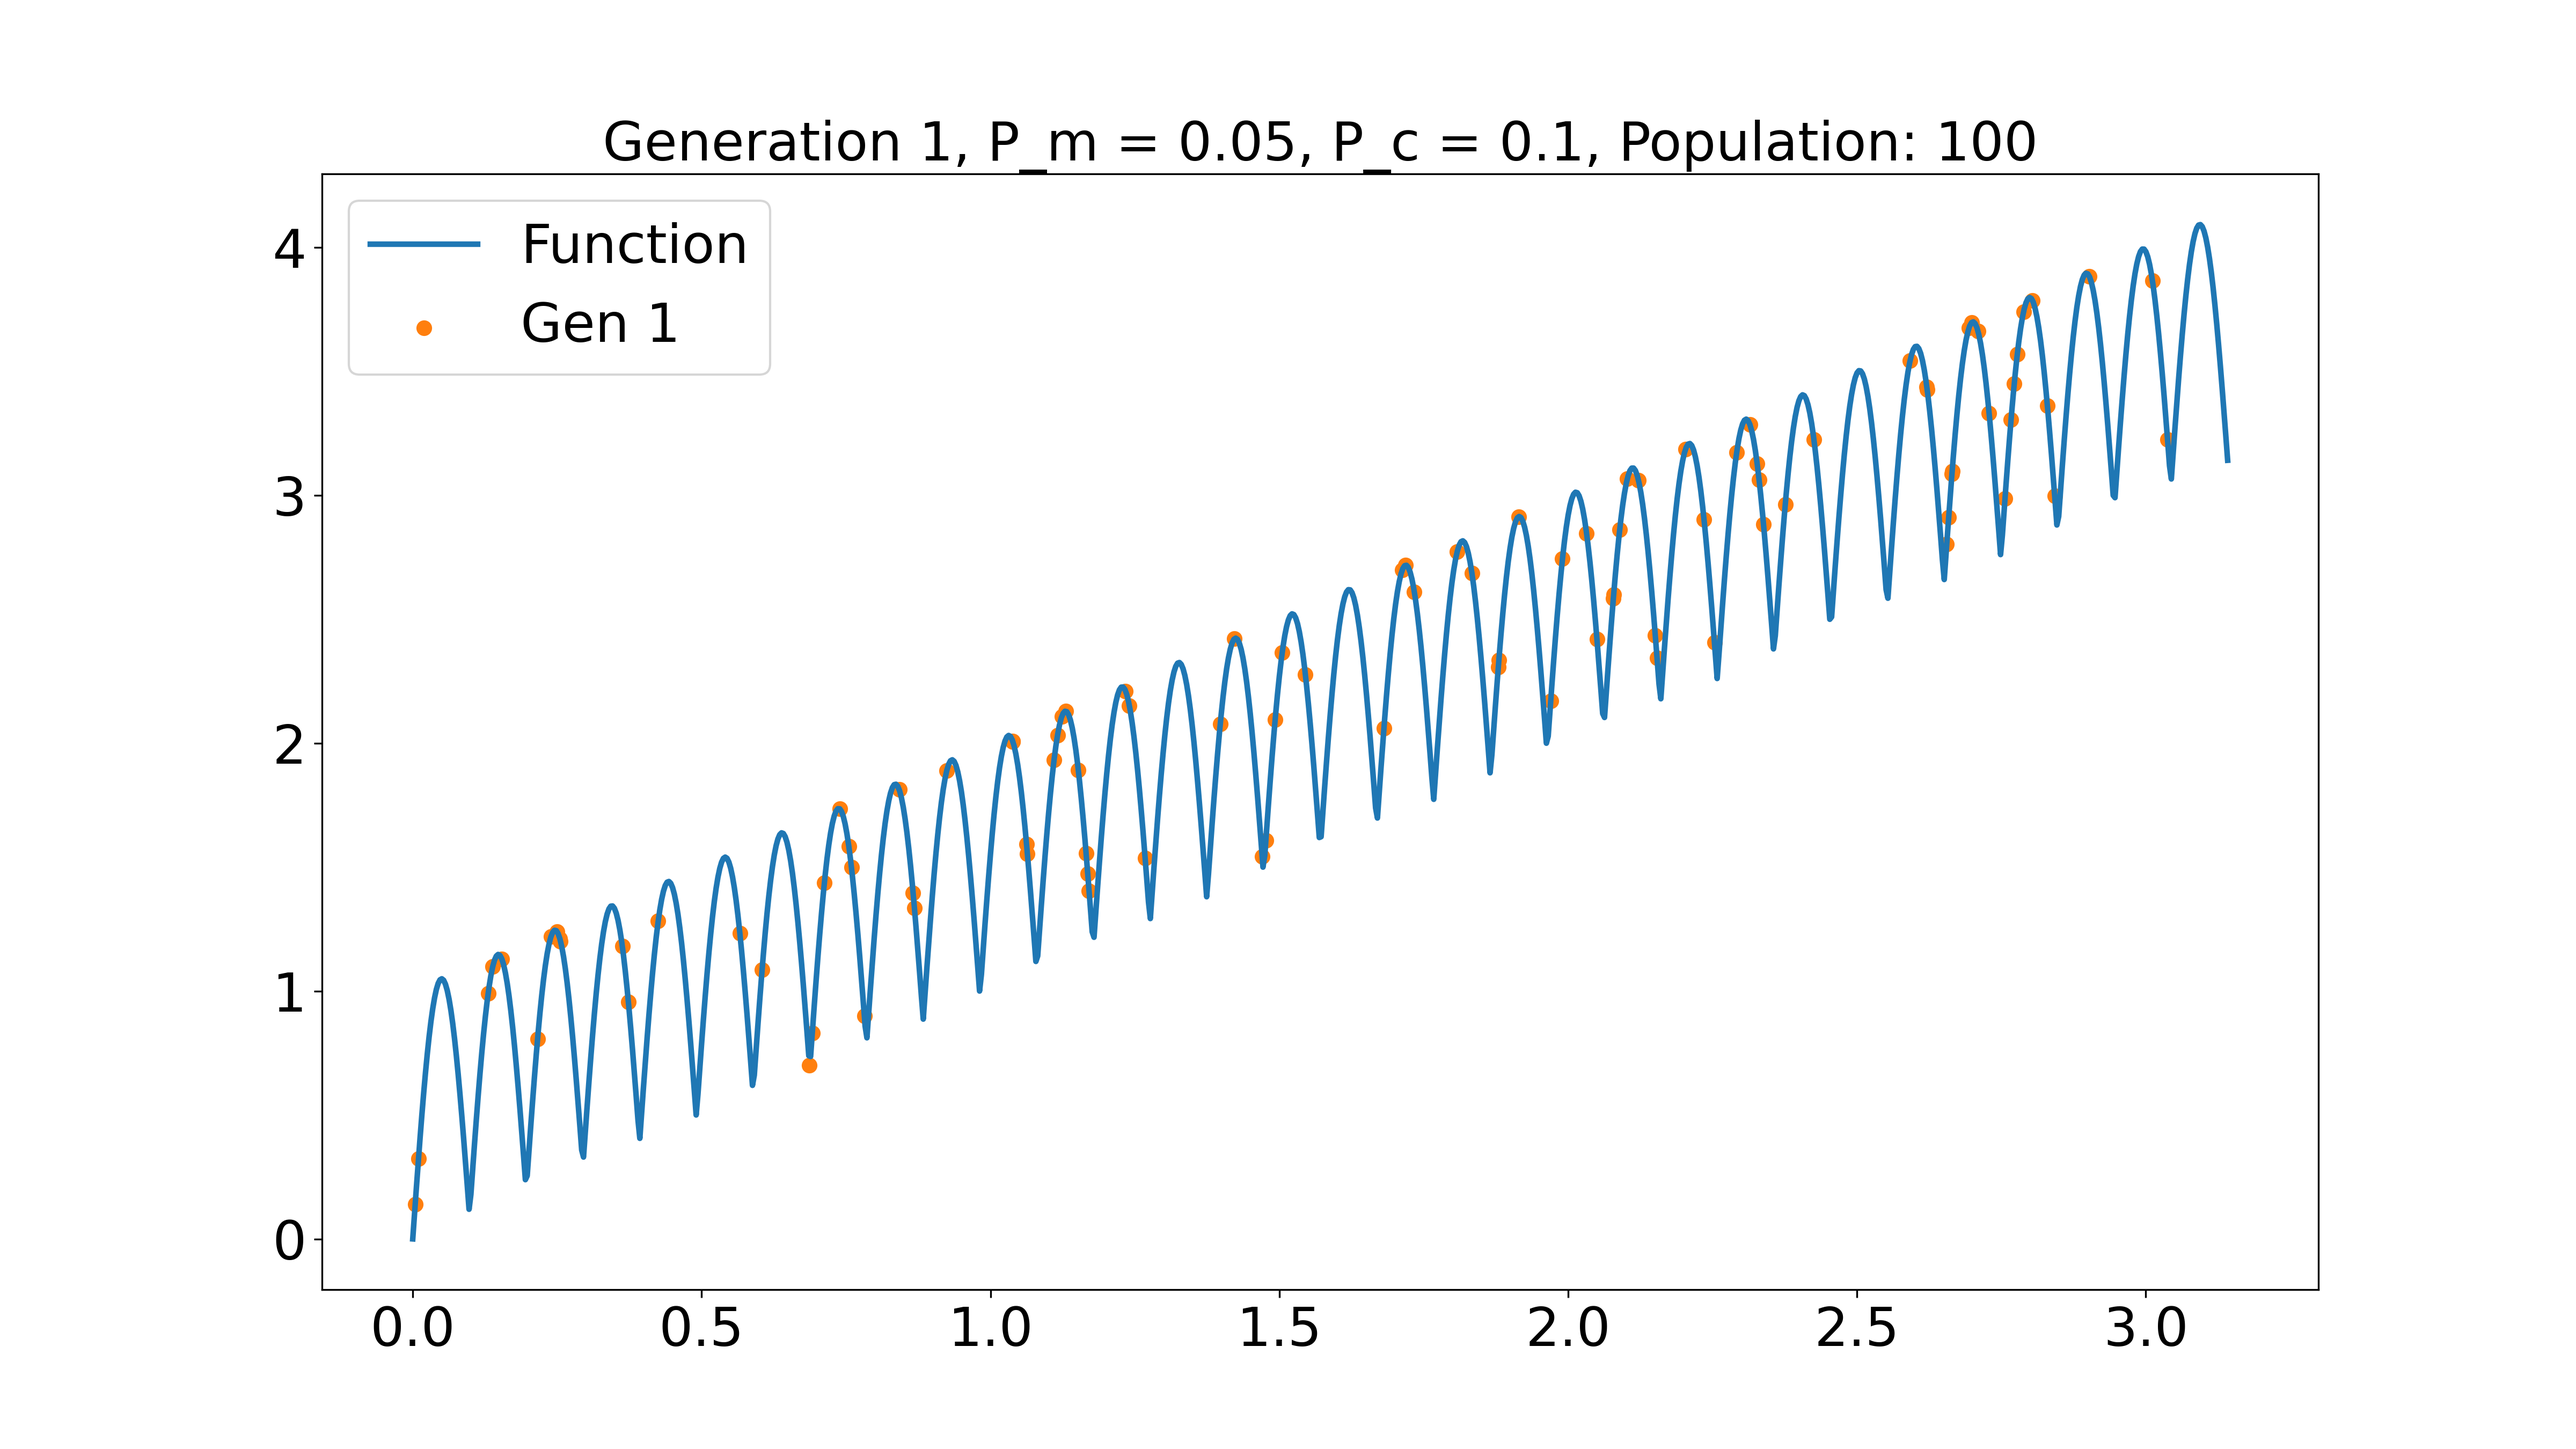
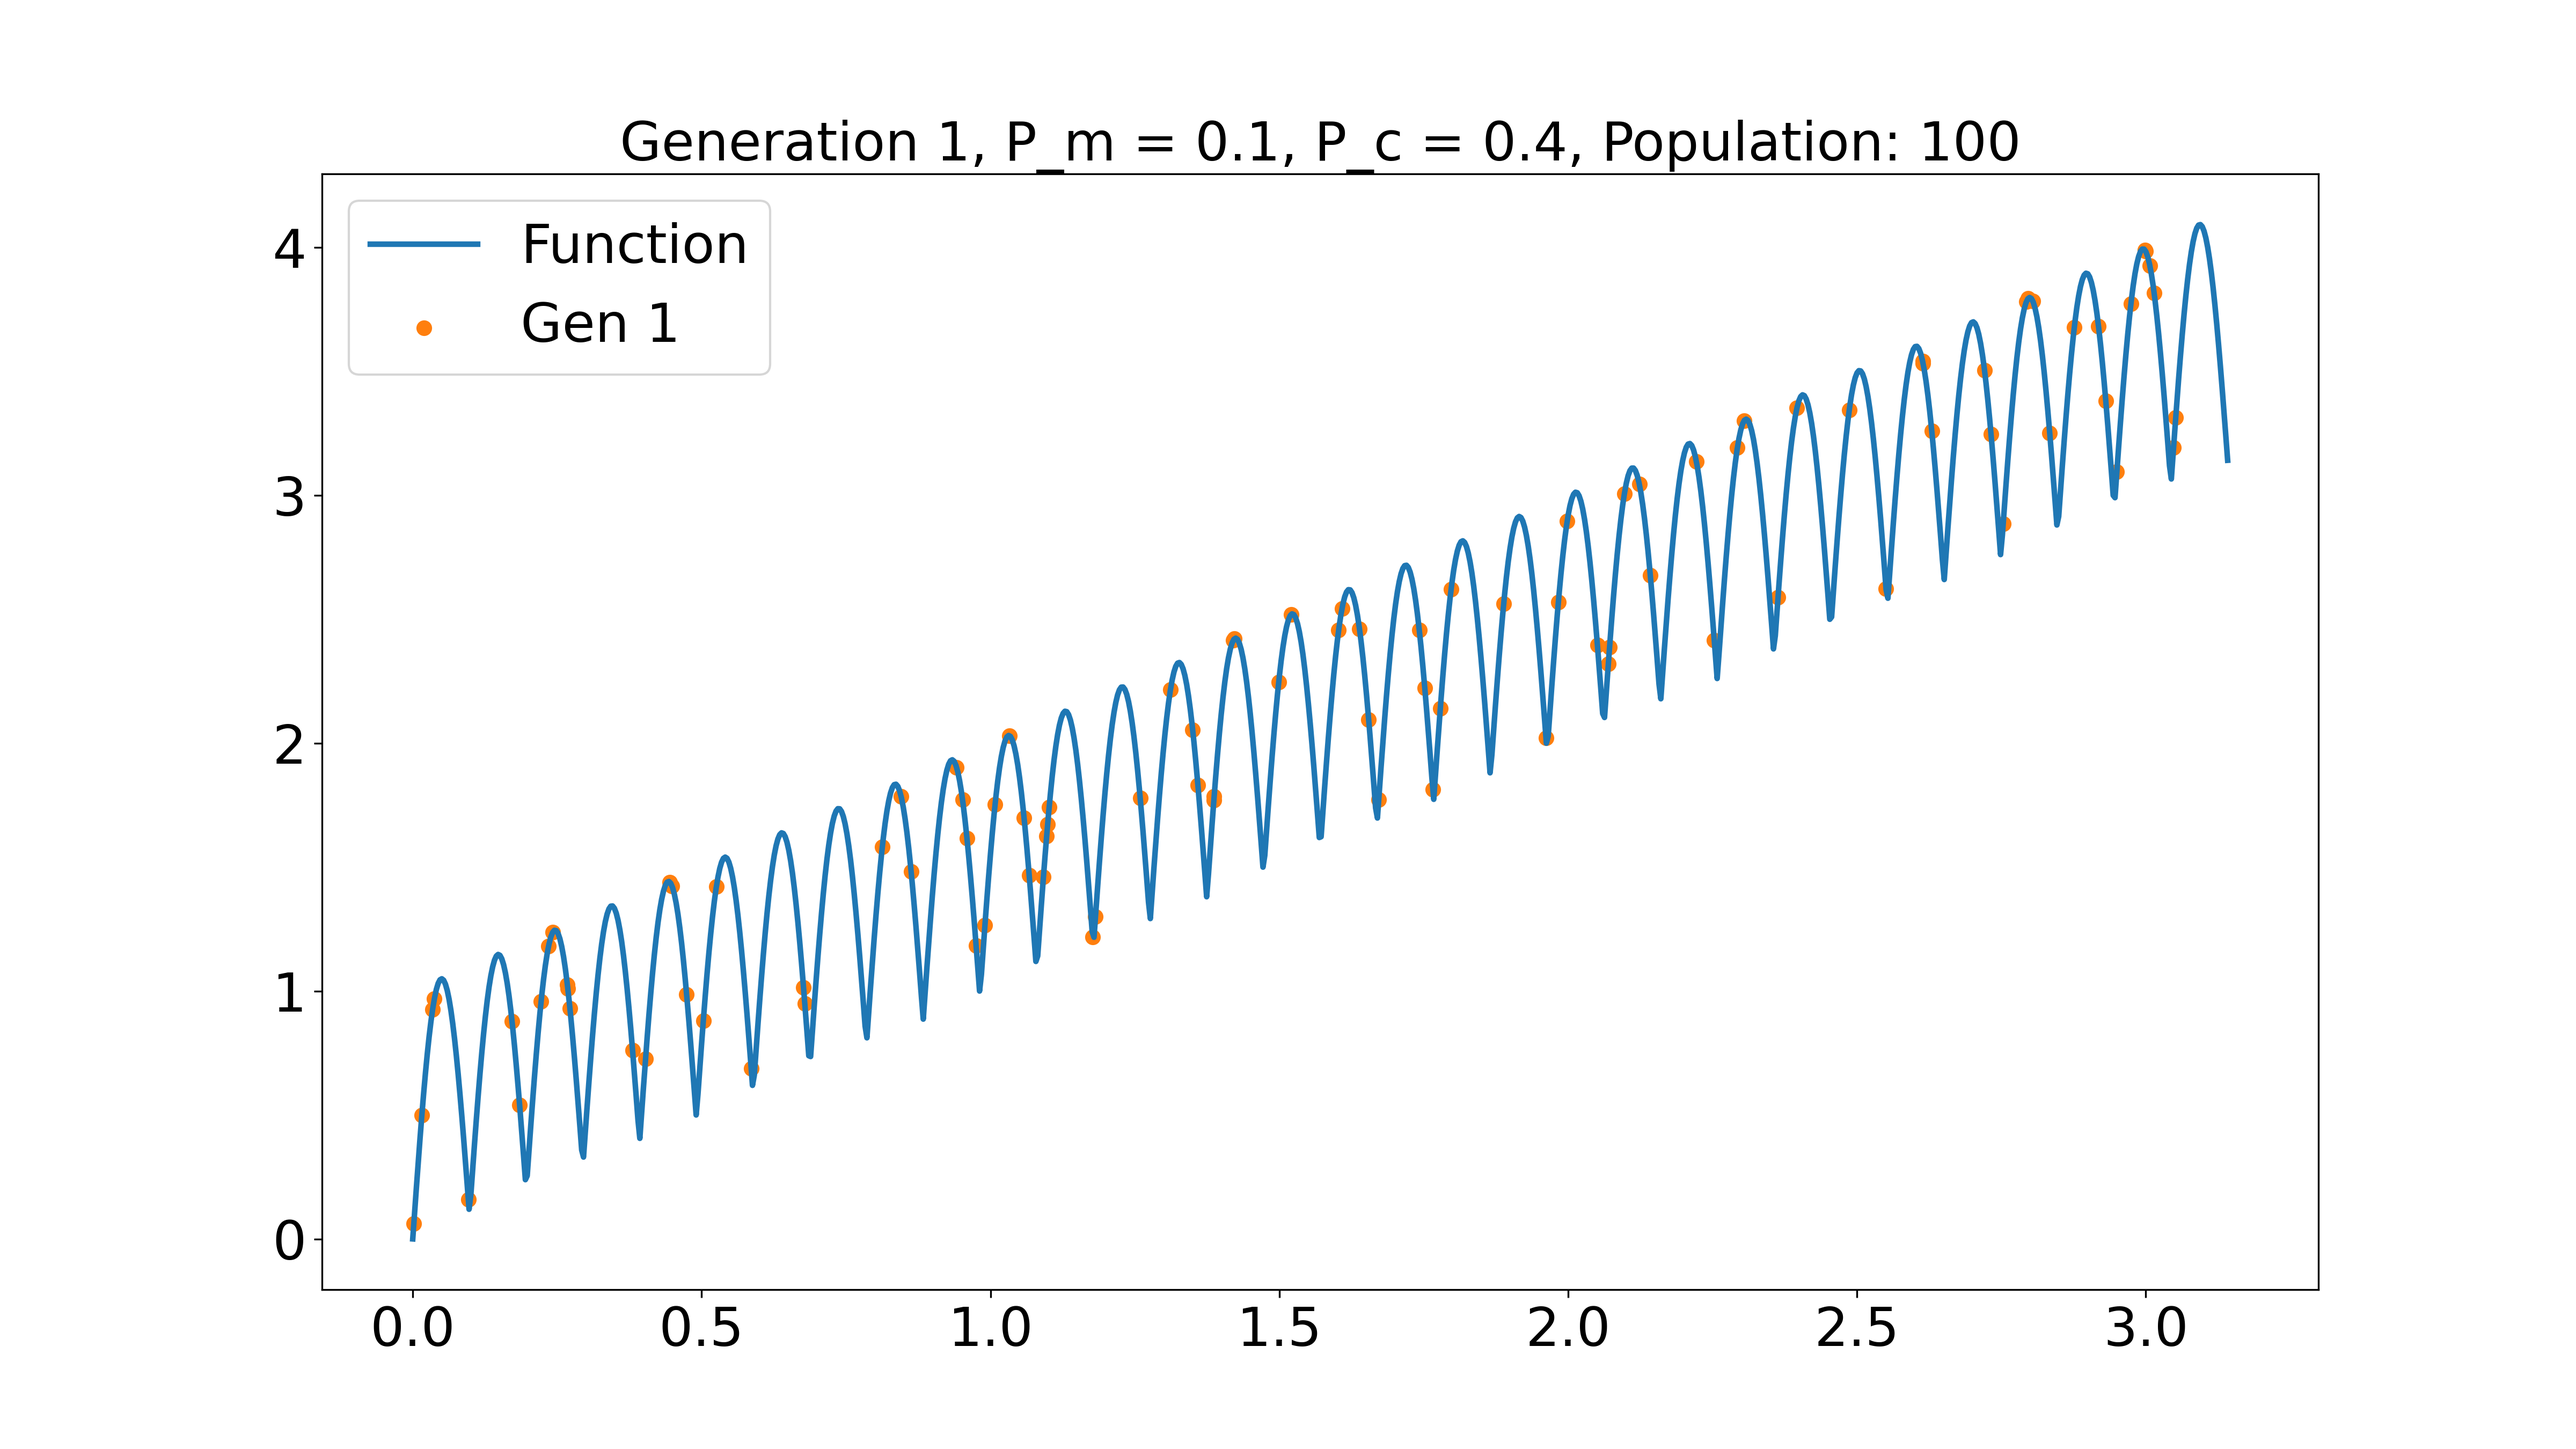
final

diff --git a/1 - Genetic Algorithms/ag.py b/1 - Genetic Algorithms/ag.py
@@ -2,15 +2,112 @@ import numpy as np
 from piece_code_ag import get_bits, get_float
 import matplotlib.pyplot as plt
 
-def ag(n=100, ngen=50, nruns=5, Pc=0.5, Pm=0.2):
+
+def mutation(child, Pm):
+    """Mutation of a new individual (child)
+
+    Args:
+        child (string): strings of bits representing
+            the genes of the child
+        Pm (float): probability of mutation
+
+    Returns:
+        child (float): equivalent float of the mutated child
     """
-    n: population size
-    ngen: number of iterations (generations)
-    nruns: number of runs
-    Pc: probability of crossover
-    Pm: probability of mutation
-    """
+    c = child
+    point = np.random.randint(32)
+    if np.random.rand(1) <= Pm:
+        c = child[:point] + str((int(child[point]) + 1) % 2) + child[point+1:]
+
+    child = get_float(c)
     
+    return 0 if np.isnan(child) else child
+
+
+def crossover(parents, Pc):
+    """Crossover between two parents
+
+    Args:
+        parents (list of size 2): contains one float in each dimension
+        Pc (float): probability of crossover
+
+    Returns:
+        child0, child1: two strings of bits, generated from the crossover between the parents
+    """
+    parent0 = get_bits(parents[0])
+    parent1 = get_bits(parents[1])
+
+    point = np.random.randint(n)  # locus point
+
+    child0 = parent0[0:point] + parent1[point:]
+    child1 = parent1[0:point] + parent0[point:]
+    if np.random.rand(1) > Pc:
+        child0 = parent0
+        child1 = parent1
+
+    return child0, child1
+
+
+def fitness(pop):
+    """Objective function evaluation (fitness of every individual)
+
+    Args:
+        pop (vector with n dimensions): individuals to be evaluated
+
+    Returns:
+        evaluation of the population
+    """
+    return pop + np.abs(np.sin(32*pop))
+
+
+def roulette_selection(fobj):
+    """Roulette Selection
+
+    Args:
+        fobj (vector with n dimensions): fitness of every individual
+
+    Returns:
+        P (vector with n dimensions): probability of selection of individuals
+    """
+    P = fobj/np.sum(fobj)
+    return np.ones(n)/n if all(np.isnan(P)) else P
+
+
+def boundary_control(pop, lower_bound, upper_bound):
+    """ Adjusts the population to be inside the bounds
+
+    Args:
+        pop (vector with n dimensions): individuals to be evaluated
+        lower_bound (float): lower bound of the domain
+        upper_bound (float): upper bound of the domain
+
+    Returns:
+        pop: population inside the bounds
+    """
+    pop[pop > upper_bound] = upper_bound
+    pop[pop < lower_bound] = lower_bound
+    return pop
+
+
+def ag(n=100, ngen=50, nruns=5, Pc=0.5, Pm=0.2, lower_bound=0, upper_bound=np.pi):
+    """
+    Genetic algorithm that runs for 'nruns'
+    with 'n' population and 'ngen' generations
+    
+    Args:
+        n (int): population size
+        ngen (int): number of iterations (generations)
+        nruns (int): number of runs
+        Pc (float): probability of crossover
+        Pm (float): probability of mutation
+        lower_bound (float): lower bound of the domain
+        upper_bound (float): upper bound of the domain
+    
+    Returns:
+        pop_run (numpy array n x ngen x nruns): population of each generation in every run
+        fit_run (numpy array n x ngen x nruns): fitness of all the population for each generation in every run
+    """
+
     # Preallocate variables
     pop_run = np.zeros((n, ngen, nruns))
     fit_run = np.zeros((n, ngen, nruns))
@@ -19,91 +116,56 @@ def ag(n=100, ngen=50, nruns=5, Pc=0.5, Pm=0.2):
         # Generate random population
         pop = np.float32(np.random.uniform(low=0.0, high=np.pi, size=n))
 
-        globalmax = -np.inf
         for gen in range(ngen):
             # Fitness evaluation of the population
-            fobj = pop + np.abs(np.sin(32*pop))
+            fobj = fitness(pop)
 
-            fobj_max = np.max(fobj)
-            if fobj_max > globalmax:
-                globalmax = fobj_max
-
+            # Save variables
             pop_run[:, gen, run] = pop
             fit_run[:, gen, run] = fobj
 
             # Probability of selection
-            P = fobj/np.sum(fobj)
+            P = roulette_selection(fobj)
 
-            if all(np.isnan(P)):
-                P = np.ones(n)/n
+            # Preallocate new population
+            new_pop = np.zeros(shape=(round(n/2)*2), dtype='float32')
 
-            new_pop = np.zeros(shape=(n), dtype='float32')
-            for i in range(int(n/2)):
+            for i in range(int(round(n/2))):
                 # Select a pair
                 pair = np.random.choice(n, 2, p=P)
                 parents = pop[pair]
 
                 # Crossover
-                parent0 = get_bits(parents[0])
-                parent1 = get_bits(parents[1])
+                child0, child1 = crossover(parents, Pc)
 
-                point = np.random.randint(n) # locus point
-
-                child0 = parent0[0:point] + parent1[point:]
-                child1 = parent1[0:point] + parent0[point:]
-                if np.random.rand(1) > Pc:
-                    child0 = parent0
-                    child1 = parent1
-                
                 # Mutation
-                # c0, c1 = '', ''
-                # for l in range(len(child0)):
-                #     c0 = c0 + str( (int(child0[l]) + int(1*(np.random.rand(1) >= Pm))) % 2 )
-                #     c1 = c1 + str( (int(child1[l]) + int(1*(np.random.rand(1) >= Pm))) % 2 )
+                child0 = mutation(child0, Pm)
+                child1 = mutation(child1, Pm)
 
-                c0, c1 = child0, child1
-                point = np.random.randint(32)
-                if np.random.rand(1) <= Pm:
-                    c0 = child0[:point] + str((int(child0[point]) + 1) % 2) + child0[point+1:]
-
-                point = np.random.randint(32)
-                if np.random.rand(1) <= Pm:
-                    c1 = child1[:point] + str((int(child1[point]) + 1) % 2) + child1[point+1:]
-
-                child0 = get_float(c0)
-                child1 = get_float(c1)
-
-                if np.isnan(child0):
-                    child0 = 0
-                    
-                if np.isnan(child1):
-                    child1 = 0
-                
                 new_pop[i*2:i*2+2] = np.array([child0, child1], dtype='float32')
 
             # if n is odd, delete one random individual
             if n % 2 != 0:
                 new_pop = np.delete(new_pop, np.random.randint(n), 0)
-            
-            # Boundary control
-            new_pop[new_pop > np.pi] = np.pi
-            new_pop[new_pop < 0] = 0
 
+            # Boundary control
+            new_pop = boundary_control(new_pop, lower_bound, upper_bound)
+            
             pop = new_pop
 
-    return pop_run, fit_run, globalmax
+    return pop_run, fit_run
 
 
 """
 Run Genetic Algorithm
 """
-nruns = 5
+nruns = 3
 ngen = 500
 n = 100
-Pc = 0.1
-Pm = 0.05
+Pc = 0.4
+Pm = 0.1
 
-pop_run, fit_run, globalmax = ag(n=n, ngen=ngen, nruns=nruns, Pc=Pc, Pm=Pm)
+pop_run, fit_run = ag(n=n, ngen=ngen, nruns=nruns, Pc=Pc, Pm=Pm)
 
 
 """
@@ -113,44 +175,46 @@ Plot average fitness
 fit_avg = np.mean(fit_run, axis=0, dtype=np.float64)
 
 plt.rc('font', size=24)      # controls default text sizes
-plt.rc('axes', titlesize=24) # fontsize of the axes title
+plt.rc('axes', titlesize=24)  # fontsize of the axes title
 linestyle = [
     'solid',   # '-'
     'dotted',  # ':'
     'dashed',  # '--'
-    'dashdot', # '-.'
-    ]
+    'dashdot',  # '-.'
+]
 leg = []
 
 for run in range(nruns):
     leg.append('Run ' + str(run))
-    plt.plot(np.arange(ngen), fit_avg[:, run], linestyle=linestyle[run%len(linestyle)], linewidth=2.5, alpha=1-(run/nruns)*0.6)
+    plt.plot(np.arange(ngen), fit_avg[:, run], linestyle=linestyle[run % len(
+        linestyle)], linewidth=2.5, alpha=1-(run/nruns)*0.8)
 
 # Labels and legend
 plt.xlabel('Generation')
 plt.ylabel('Average Cost')
 plt.legend(leg)
-plt.title(f'Average fitness, P_m = {Pm}, P_c = {Pc}, Population: {n}, Generations: {ngen}')
+plt.title(
+    f'Average fitness, P_m = {Pm}, P_c = {Pc}, Population: {n}, Generations: {ngen}')
 
 # Set figure size and save
 fig = plt.gcf()
 fig.set_size_inches(16, 9)
-fig.savefig(f'{n}runs_{n}pop_{ngen}gen.png', dpi=300)
+fig.savefig(f'{nruns}runs_{n}pop_{ngen}gen.png', dpi=300)
 
 plt.show()
 
 
-
 """
-Plot chromossomes fitness in the function (for run 0)
+Plot chromosomes fitness in the function (for run 0)
 """
-generations = [0, round(ngen*0.25), round(ngen*0.5), round(ngen*0.75), ngen-1]
+generations = [0, round(ngen*0.25)-1, round(ngen*0.5)-1, round(ngen*0.75)-1, ngen-1]
 pop = pop_run[:, generations, 0]
 fit = fit_run[:, generations, 0]
 
 x = np.linspace(0, np.pi, num=1000)
 y = x + np.abs(np.sin(32*x))
-color = ['#ff7f0e', '#2ca02c', '#d62728', '#9467bd', '#8c564b', '#e377c2', '#7f7f7f', '#bcbd22', '#17becf' ,'#1f77b4']
+color = ['#ff7f0e', '#2ca02c', '#d62728', '#9467bd', '#8c564b',
+         '#e377c2', '#7f7f7f', '#bcbd22', '#17becf', '#1f77b4']
 for idx, gen in enumerate(generations):
     plt.figure(idx+2)
     plt.plot(x, y, linewidth=2.5)
